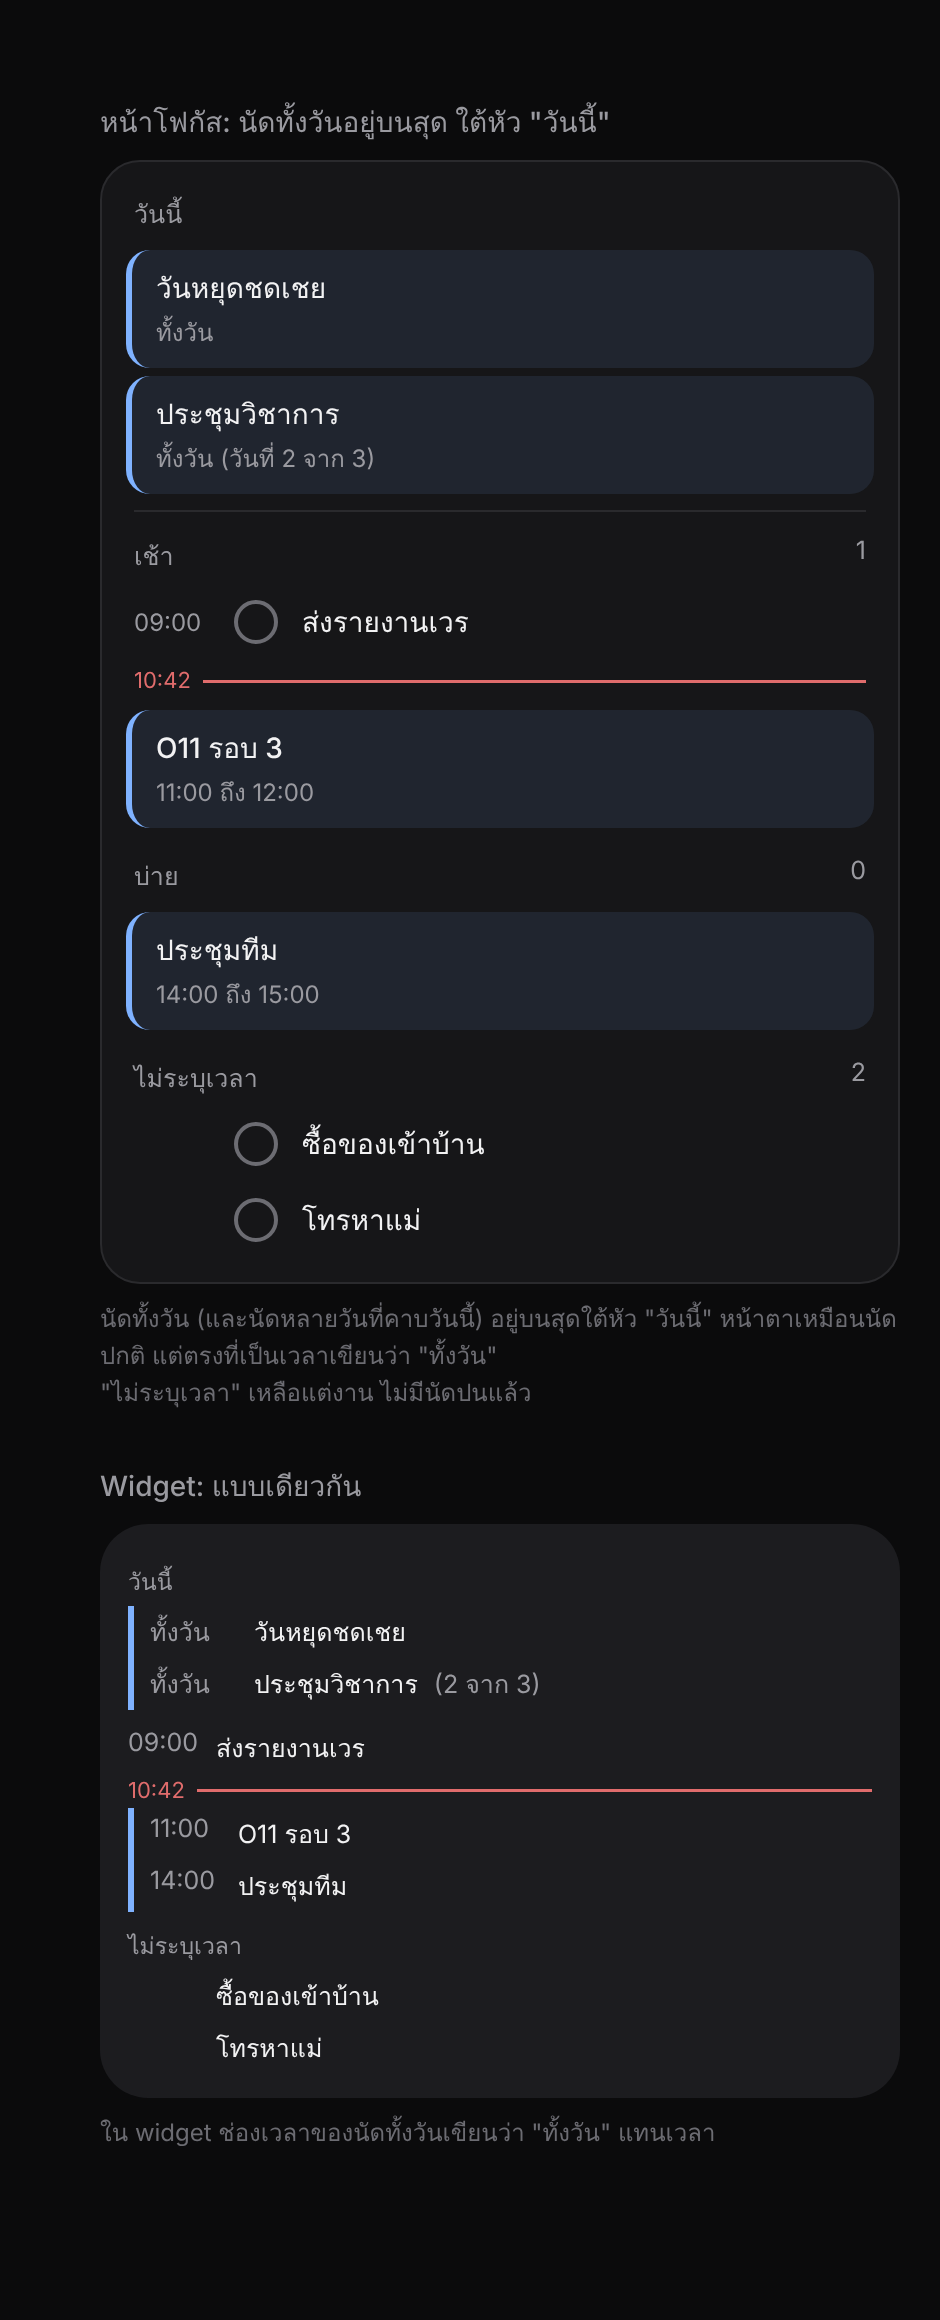
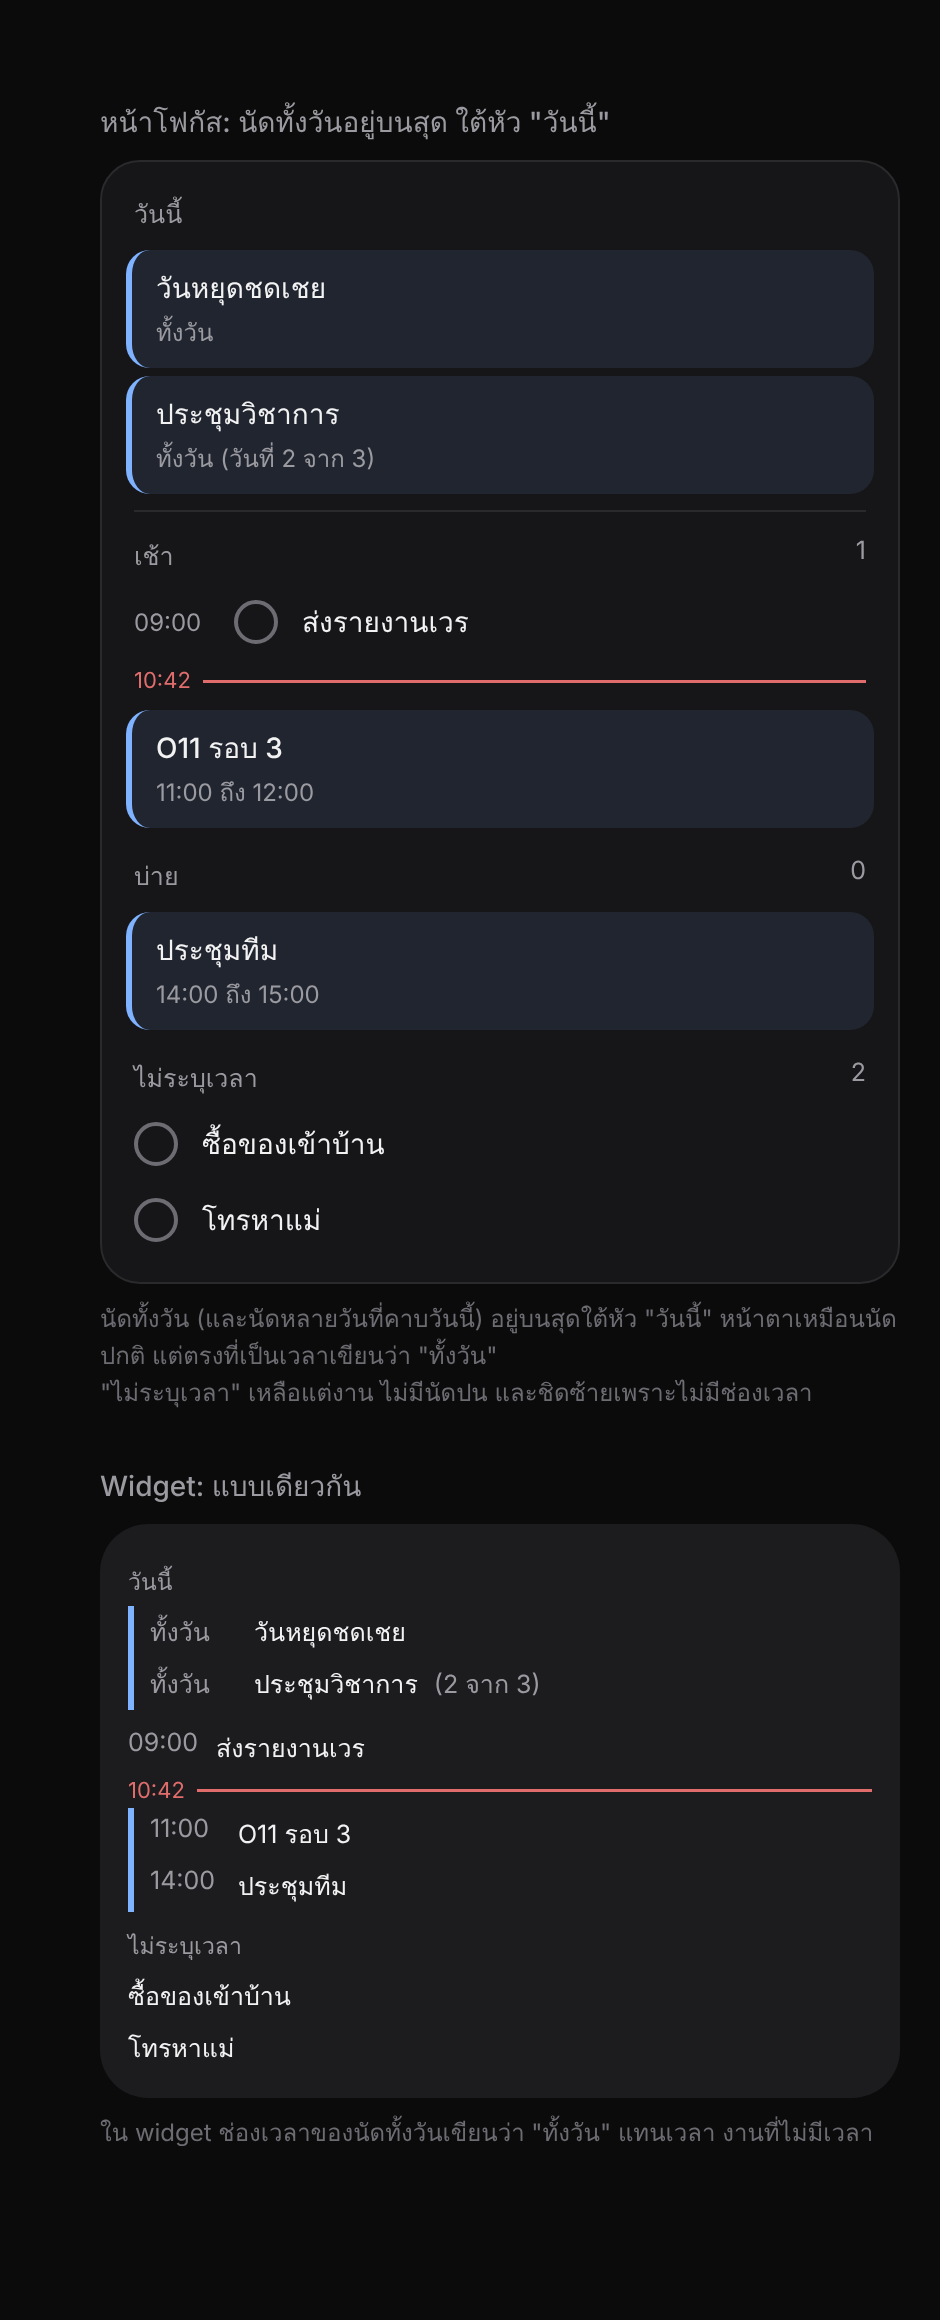
Mockup: untimed tasks sit flush left
Claude-Session: https://claude.ai/code/session_013R3fFvcv67nxY8agVcYRQ6

diff --git a/docs/mockup-allday-top.html b/docs/mockup-allday-top.html
@@ -39,10 +39,10 @@ h2{font-size:14px;color:var(--muted);font-weight:500;margin:26px 0 8px}
  <div class="head"><span>บ่าย</span><span>0</span></div>
  <div class="ev"><b>ประชุมทีม</b><span>14:00 ถึง 15:00</span></div>
  <div class="head"><span>ไม่ระบุเวลา</span><span>2</span></div>
- <div class="task"><span class="time"></span><div class="box"></div>ซื้อของเข้าบ้าน</div>
- <div class="task"><span class="time"></span><div class="box"></div>โทรหาแม่</div>
+ <div class="task"><div class="box"></div>ซื้อของเข้าบ้าน</div>
+ <div class="task"><div class="box"></div>โทรหาแม่</div>
 </div>
-<div class="note">นัดทั้งวัน (และนัดหลายวันที่คาบวันนี้) อยู่บนสุดใต้หัว "วันนี้" หน้าตาเหมือนนัดปกติ แต่ตรงที่เป็นเวลาเขียนว่า "ทั้งวัน"<br>"ไม่ระบุเวลา" เหลือแต่งาน ไม่มีนัดปนแล้ว</div>
+<div class="note">นัดทั้งวัน (และนัดหลายวันที่คาบวันนี้) อยู่บนสุดใต้หัว "วันนี้" หน้าตาเหมือนนัดปกติ แต่ตรงที่เป็นเวลาเขียนว่า "ทั้งวัน"<br>"ไม่ระบุเวลา" เหลือแต่งาน ไม่มีนัดปน และชิดซ้ายเพราะไม่มีช่องเวลา</div>
 
 <h2>Widget: แบบเดียวกัน</h2>
 <div class="w">
@@ -54,8 +54,8 @@ h2{font-size:14px;color:var(--muted);font-weight:500;margin:26px 0 8px}
  <div class="r e"><span class="t">11:00</span>O11 รอบ 3</div>
  <div class="r e"><span class="t">14:00</span>ประชุมทีม</div>
  <div class="h">ไม่ระบุเวลา</div>
- <div class="r"><span class="t"></span>ซื้อของเข้าบ้าน</div>
- <div class="r"><span class="t"></span>โทรหาแม่</div>
+ <div class="r">ซื้อของเข้าบ้าน</div>
+ <div class="r">โทรหาแม่</div>
 </div>
-<div class="note">ใน widget ช่องเวลาของนัดทั้งวันเขียนว่า "ทั้งวัน" แทนเวลา</div>
+<div class="note">ใน widget ช่องเวลาของนัดทั้งวันเขียนว่า "ทั้งวัน" แทนเวลา งานที่ไม่มีเวลาชิดซ้ายเหมือนกัน</div>
 </div></body></html>
